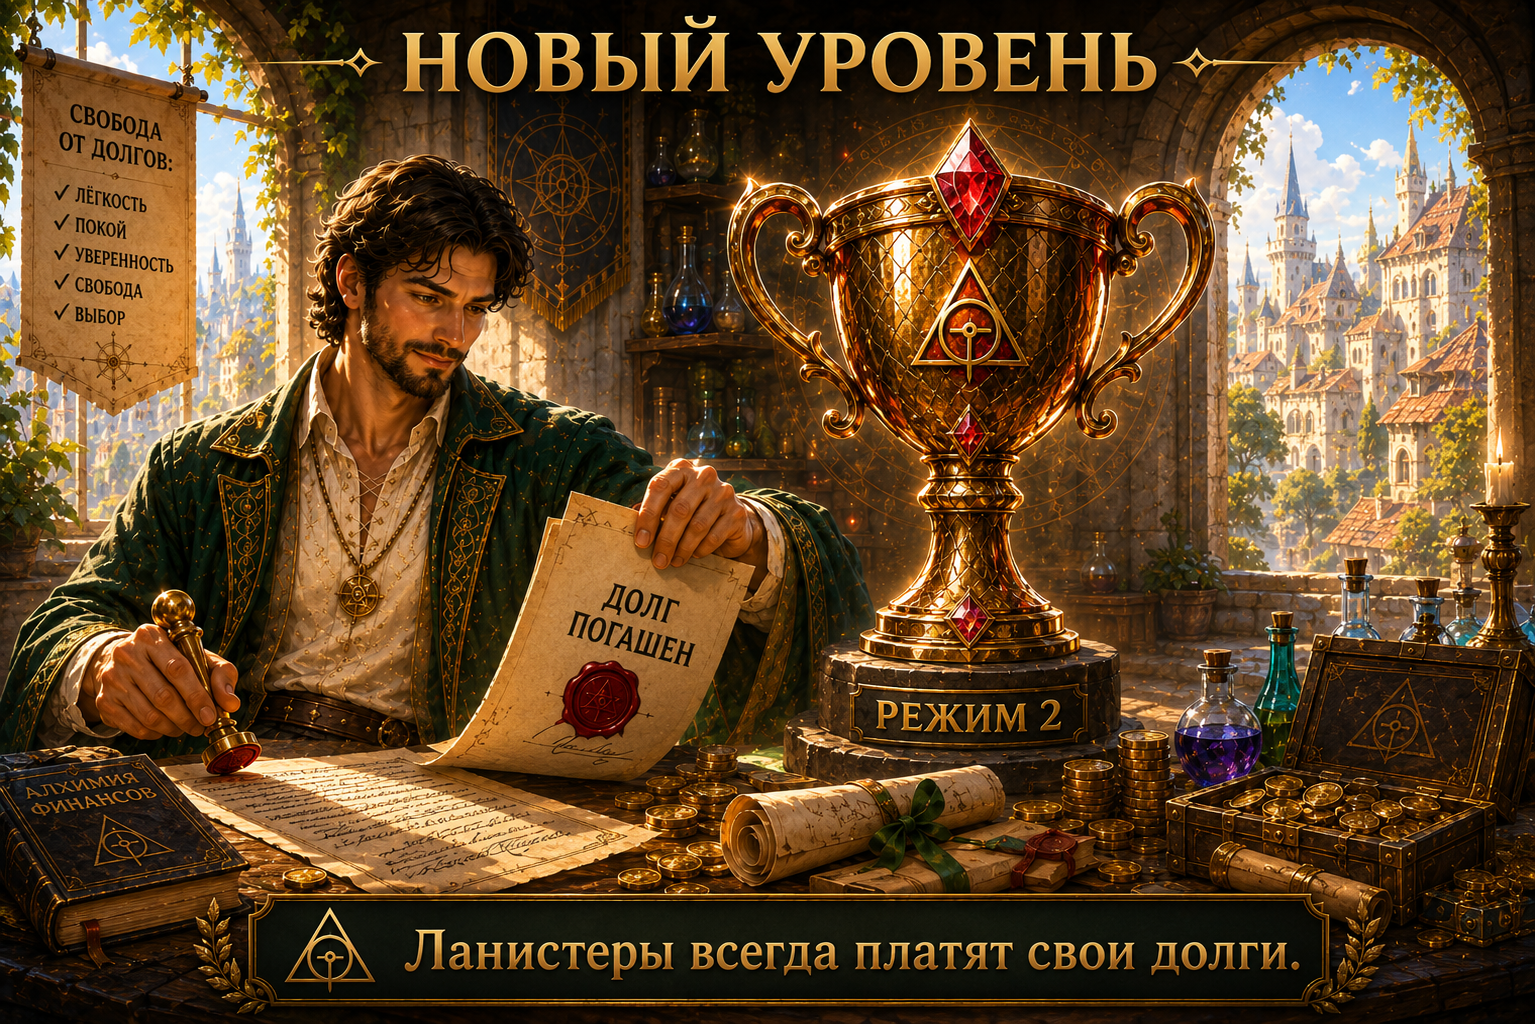
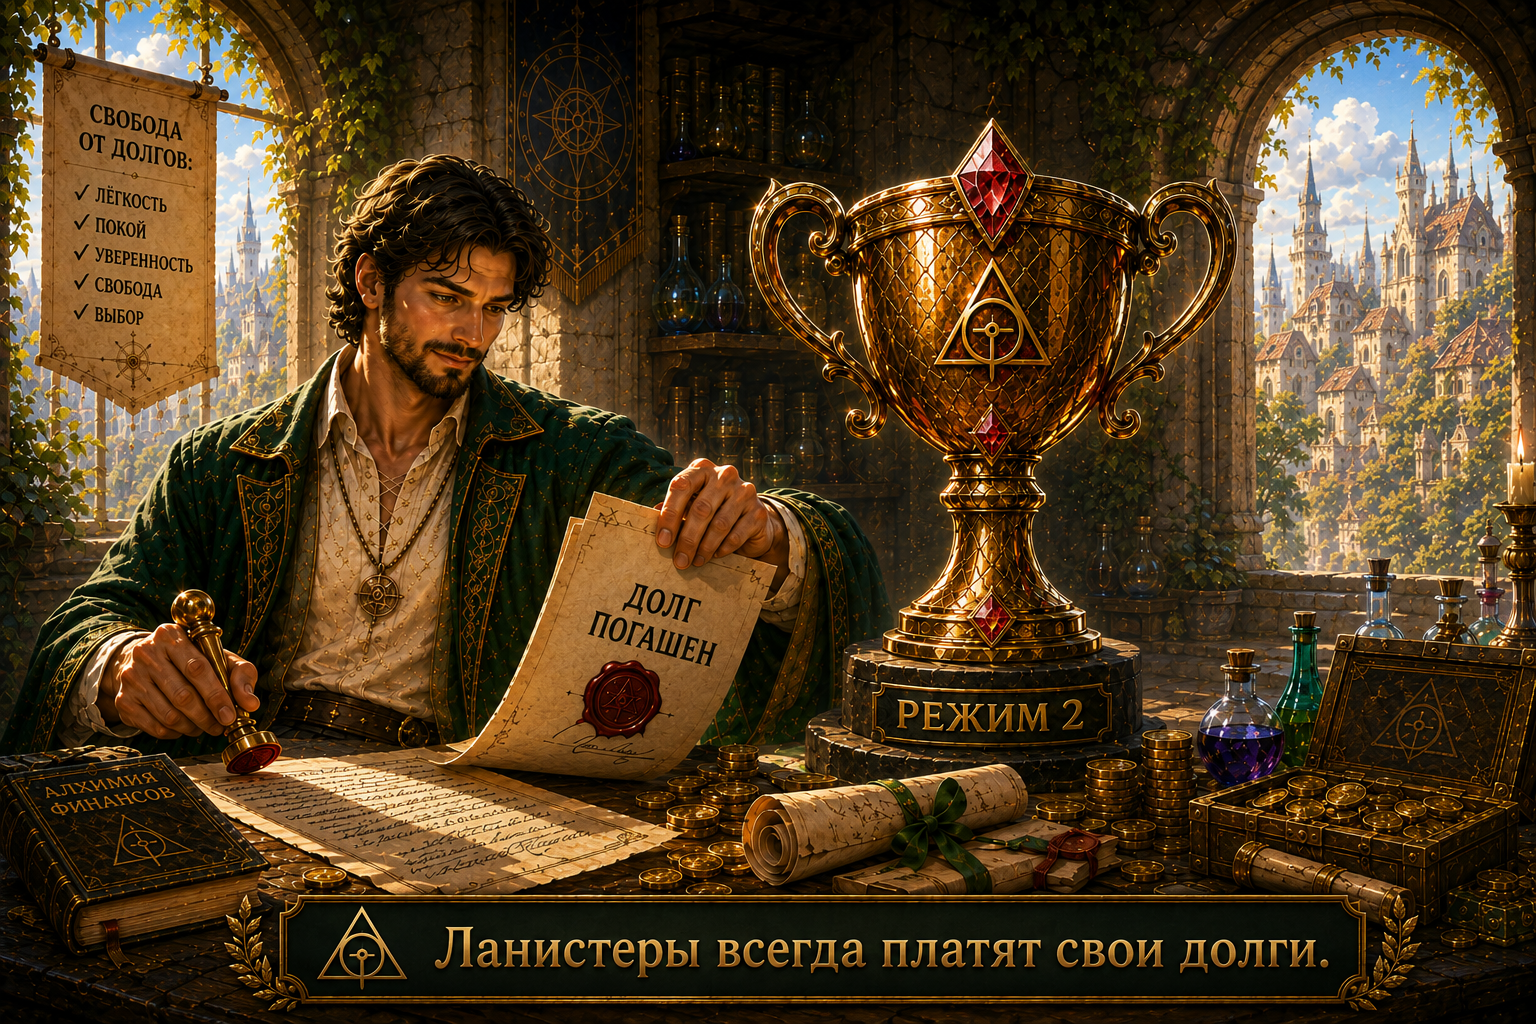
Add images for income, analysis and financial modes

diff --git a/income.py b/income.py
@@ -31,6 +31,9 @@ from ui import main_menu_keyboard
 router = Router()
 
 
+NEW_INCOME_IMAGE_PATH = Path(__file__).resolve().parent / "assets" / "menu" / "new_income.png"
+
+
 MODE_IMAGE_PATHS = {2: Path(__file__).resolve().parent / "assets" / "modes" / "mode_2.png", 3: Path(__file__).resolve().parent / "assets" / "modes" / "mode_3.png", 4: Path(__file__).resolve().parent / "assets" / "modes" / "mode_4.png", 5: Path(__file__).resolve().parent / "assets" / "modes" / "mode_5.png", 6: Path(__file__).resolve().parent / "assets" / "modes" / "mode_6.png"}
 
 async def send_mode_unlock_image(message: Message, result) -> None:
@@ -39,7 +42,15 @@ async def send_mode_unlock_image(message: Message, result) -> None:
     image_path = MODE_IMAGE_PATHS.get(result.mode_after)
     if image_path is None or not image_path.exists():
         return
-    await message.answer_photo(photo=FSInputFile(image_path), caption=f"<b>РЕЖИМ {result.mode_after}</b>\n{escape(MODE_TITLES[result.mode_after])}")
+    mode_label = (
+        "МАКСИМАЛЬНЫЙ РЕЖИМ"
+        if result.mode_after == 6
+        else f"РЕЖИМ {result.mode_after}"
+    )
+    await message.answer_photo(
+        photo=FSInputFile(image_path),
+        caption=f"<b>{mode_label}</b>\n{escape(MODE_TITLES[result.mode_after])}",
+    )
 
 
 # ============================================================
@@ -209,14 +220,13 @@ async def start_income(
         IncomeStates.amount
     )
 
+    if NEW_INCOME_IMAGE_PATH.exists():
+        await message.answer_photo(
+            photo=FSInputFile(NEW_INCOME_IMAGE_PATH),
+        )
+
     await message.answer(
-        "💰 <b>НОВОЕ ПОСТУПЛЕНИЕ</b>\n\n"
-
-        "Сколько денег вы получили?\n\n"
-
-        "Введите полную сумму поступления "
-        "<b>до удержания налога</b>.\n\n"
-
+        "<b>Введите полную сумму поступления</b>\n\n"
         "Примеры:\n"
         "<code>50000</code>\n"
         "<code>125 000</code>\n"
@@ -1150,6 +1160,11 @@ async def confirm_income(
         income_date,
     )
 
+    await send_mode_unlock_image(
+        callback.message,
+        result,
+    )
+
 
 # ============================================================
 # ОТЧЁТ
@@ -1382,26 +1397,58 @@ async def send_distribution_report(
             next_info["remaining"]
         )
 
-        if mode == 2:
-
-            lines.append(
-                "Погаси еще "
-                f"{remaining} ₽ долгов "
-                "и получи следующий кубок!"
-            )
-
+        if settings.employment_type == "Фрилансер":
+            reward_text = {
+                1: (
+                    "Отложи на Подушку еще "
+                    f"{remaining} ₽ и защити себя от новых долгов!"
+                ),
+                2: (
+                    "Погаси еще "
+                    f"{remaining} ₽ долгов и начни формировать надежную "
+                    "форс-мажорную Подушку!"
+                ),
+                3: (
+                    "Отложи на Подушку еще "
+                    f"{remaining} ₽ и открой Стабилизатор дохода!"
+                ),
+                4: (
+                    "Отложи на Подушку еще "
+                    f"{remaining} ₽ — и откроются инвестиции и цели!"
+                ),
+                5: (
+                    "Отложи на Подушку еще "
+                    f"{remaining} ₽ и достигни Максимального режима!"
+                ),
+            }
         else:
+            reward_text = {
+                1: (
+                    "Отложи на Подушку еще "
+                    f"{remaining} ₽ и защити себя от новых долгов!"
+                ),
+                2: (
+                    "Погаси еще "
+                    f"{remaining} ₽ долгов и начни формировать надежную "
+                    "форс-мажорную Подушку!"
+                ),
+                3: (
+                    "Отложи на Подушку еще "
+                    f"{remaining} ₽ и достигни Максимального режима!"
+                ),
+            }
 
-            lines.append(
-                "Отложи на Подушку еще "
-                f"{remaining} ₽ "
-                "и получи следующий кубок!"
+        lines.append(
+            reward_text.get(
+                mode,
+                f"До следующего режима осталось {remaining} ₽."
             )
+        )
 
     else:
 
         lines.append(
-            "Все кубки этого профиля уже получены!"
+            "Философский камень найден."
         )
 
     lines.extend([

diff --git a/dashboard.py b/dashboard.py
@@ -3,11 +3,12 @@ from __future__ import annotations
 from datetime import date, datetime
 from decimal import Decimal
 from html import escape
+from pathlib import Path
 
 from aiogram import F, Router
 from aiogram.filters import Command
 from aiogram.fsm.context import FSMContext
-from aiogram.types import CallbackQuery, Message
+from aiogram.types import CallbackQuery, Message, FSInputFile
 
 from financial_engine import (
     MODE_NAMES,
@@ -19,6 +20,21 @@ from ui import main_menu_keyboard
 
 
 router = Router()
+
+
+ASSETS_DIR = Path(__file__).resolve().parent / "assets"
+INCOME_ANALYSIS_IMAGE_PATH = ASSETS_DIR / "menu" / "income_analysis.png"
+MODE_IMAGE_PATHS = {
+    mode: ASSETS_DIR / "modes" / f"mode_{mode}.png"
+    for mode in range(1, 7)
+}
+
+
+async def send_current_mode_image(message: Message, mode: int) -> None:
+    image_path = MODE_IMAGE_PATHS.get(mode)
+    if image_path is None or not image_path.exists():
+        return
+    await message.answer_photo(photo=FSInputFile(image_path))
 
 
 # ============================================================
@@ -411,6 +427,8 @@ async def send_mode(
     settings = allocator.settings
 
     mode = allocator.active_mode()
+
+    await send_current_mode_image(message, mode)
 
     mapping = (
         FREELANCER_MODES
@@ -915,6 +933,11 @@ async def send_income_analysis(
         )
         return
 
+    if INCOME_ANALYSIS_IMAGE_PATH.exists():
+        await message.answer_photo(
+            photo=FSInputFile(INCOME_ANALYSIS_IMAGE_PATH),
+        )
+
     # Берём операции прямо из SQLite.
     # Они уже отсортированы:
     # сначала самые новые.
@@ -990,7 +1013,6 @@ async def send_income_analysis(
     if total_income <= 0:
 
         await message.answer(
-            "<b>АНАЛИЗ ДОХОДОВ</b>\n\n"
             "В текущем расчётном периоде "
             "пока нет поступлений.",
             reply_markup=main_menu_keyboard(),
@@ -1009,8 +1031,6 @@ async def send_income_analysis(
     )
 
     lines = [
-        "<b>АНАЛИЗ ДОХОДОВ</b>",
-        "",
         f"👛 Доход итого: "
         f"<b>{rub(total_income)}</b>",
         "",

diff --git a/financial_engine.py b/financial_engine.py
@@ -77,7 +77,7 @@ MODE_NAMES = {
     MODE_3: "🟠 3",
     MODE_4: "🟣 4",
     MODE_5: "🔵 5",
-    MODE_6: "🟢 6",
+    MODE_6: "🟢 Максимальный режим",
 }
 
 
